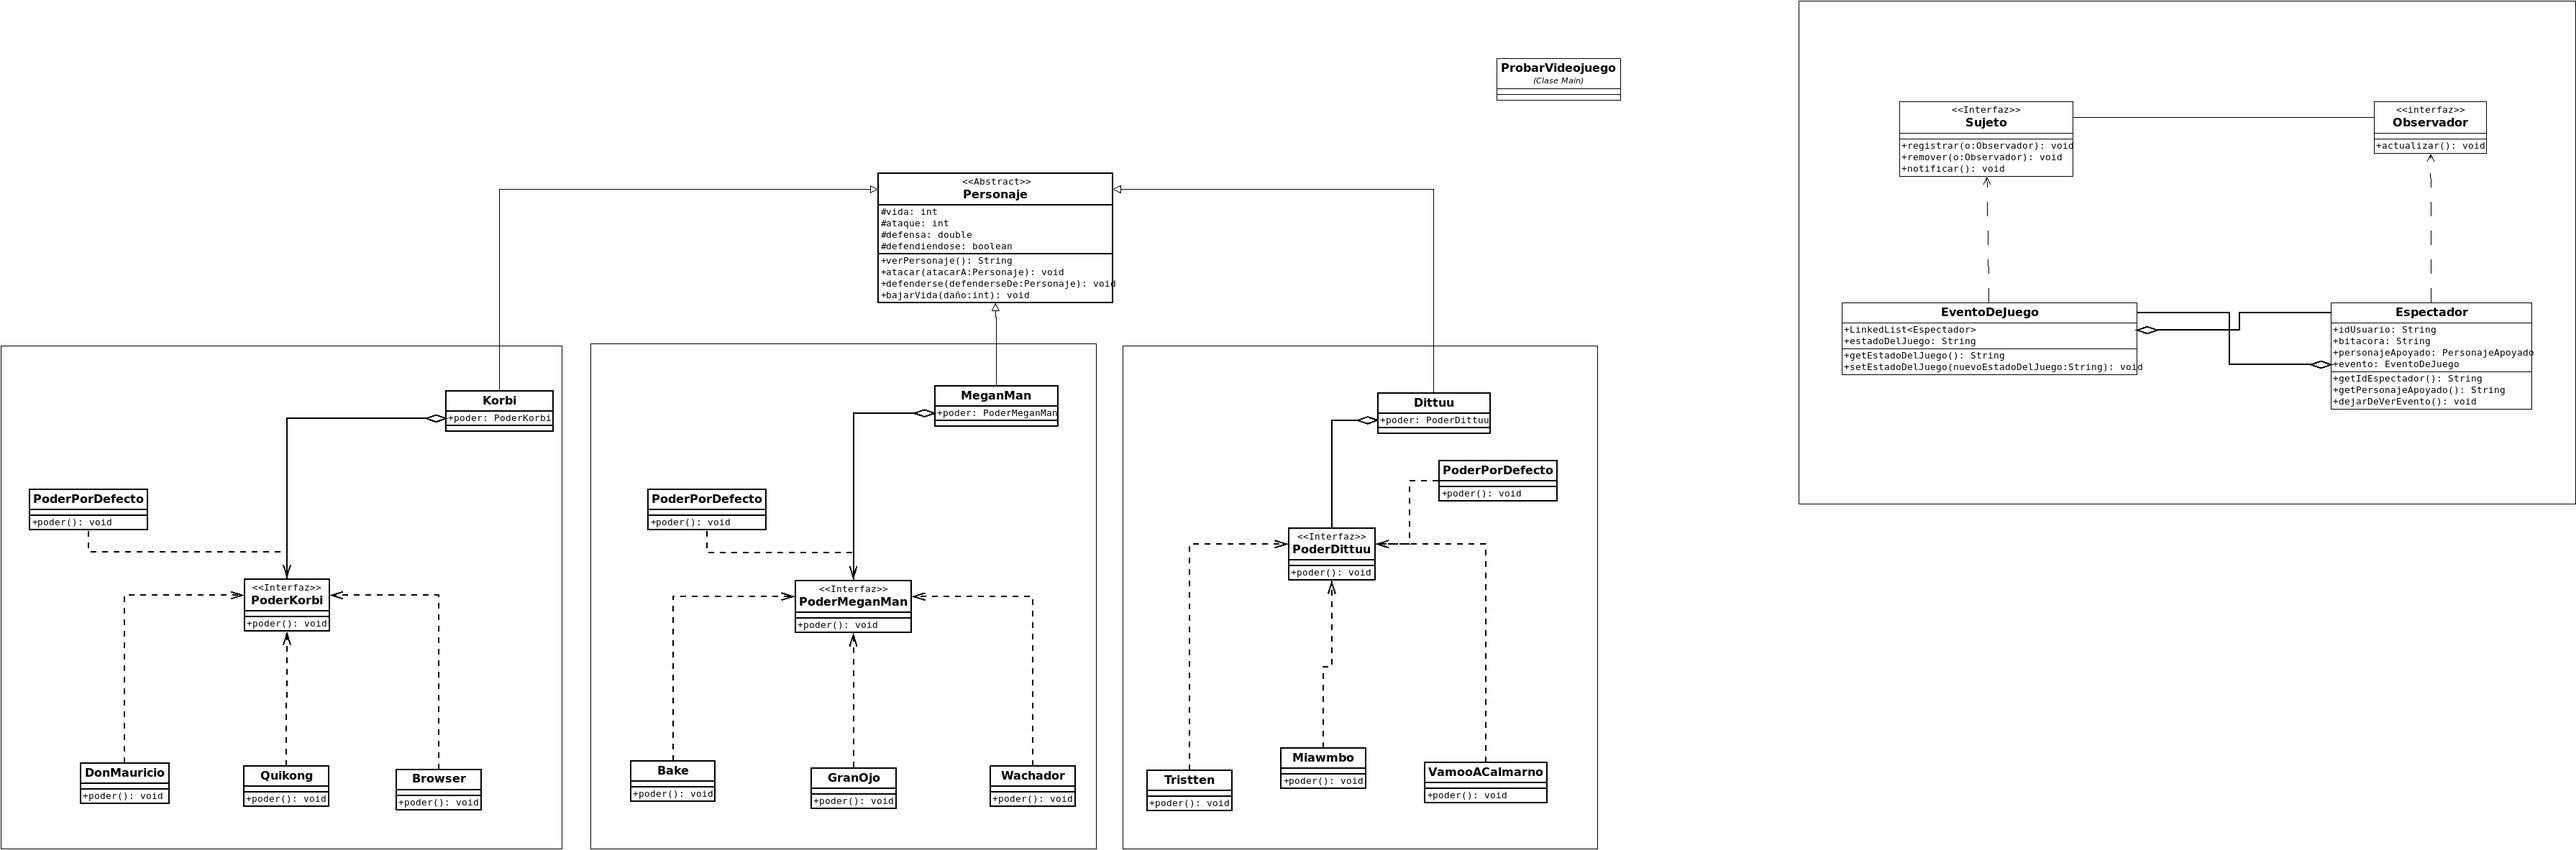
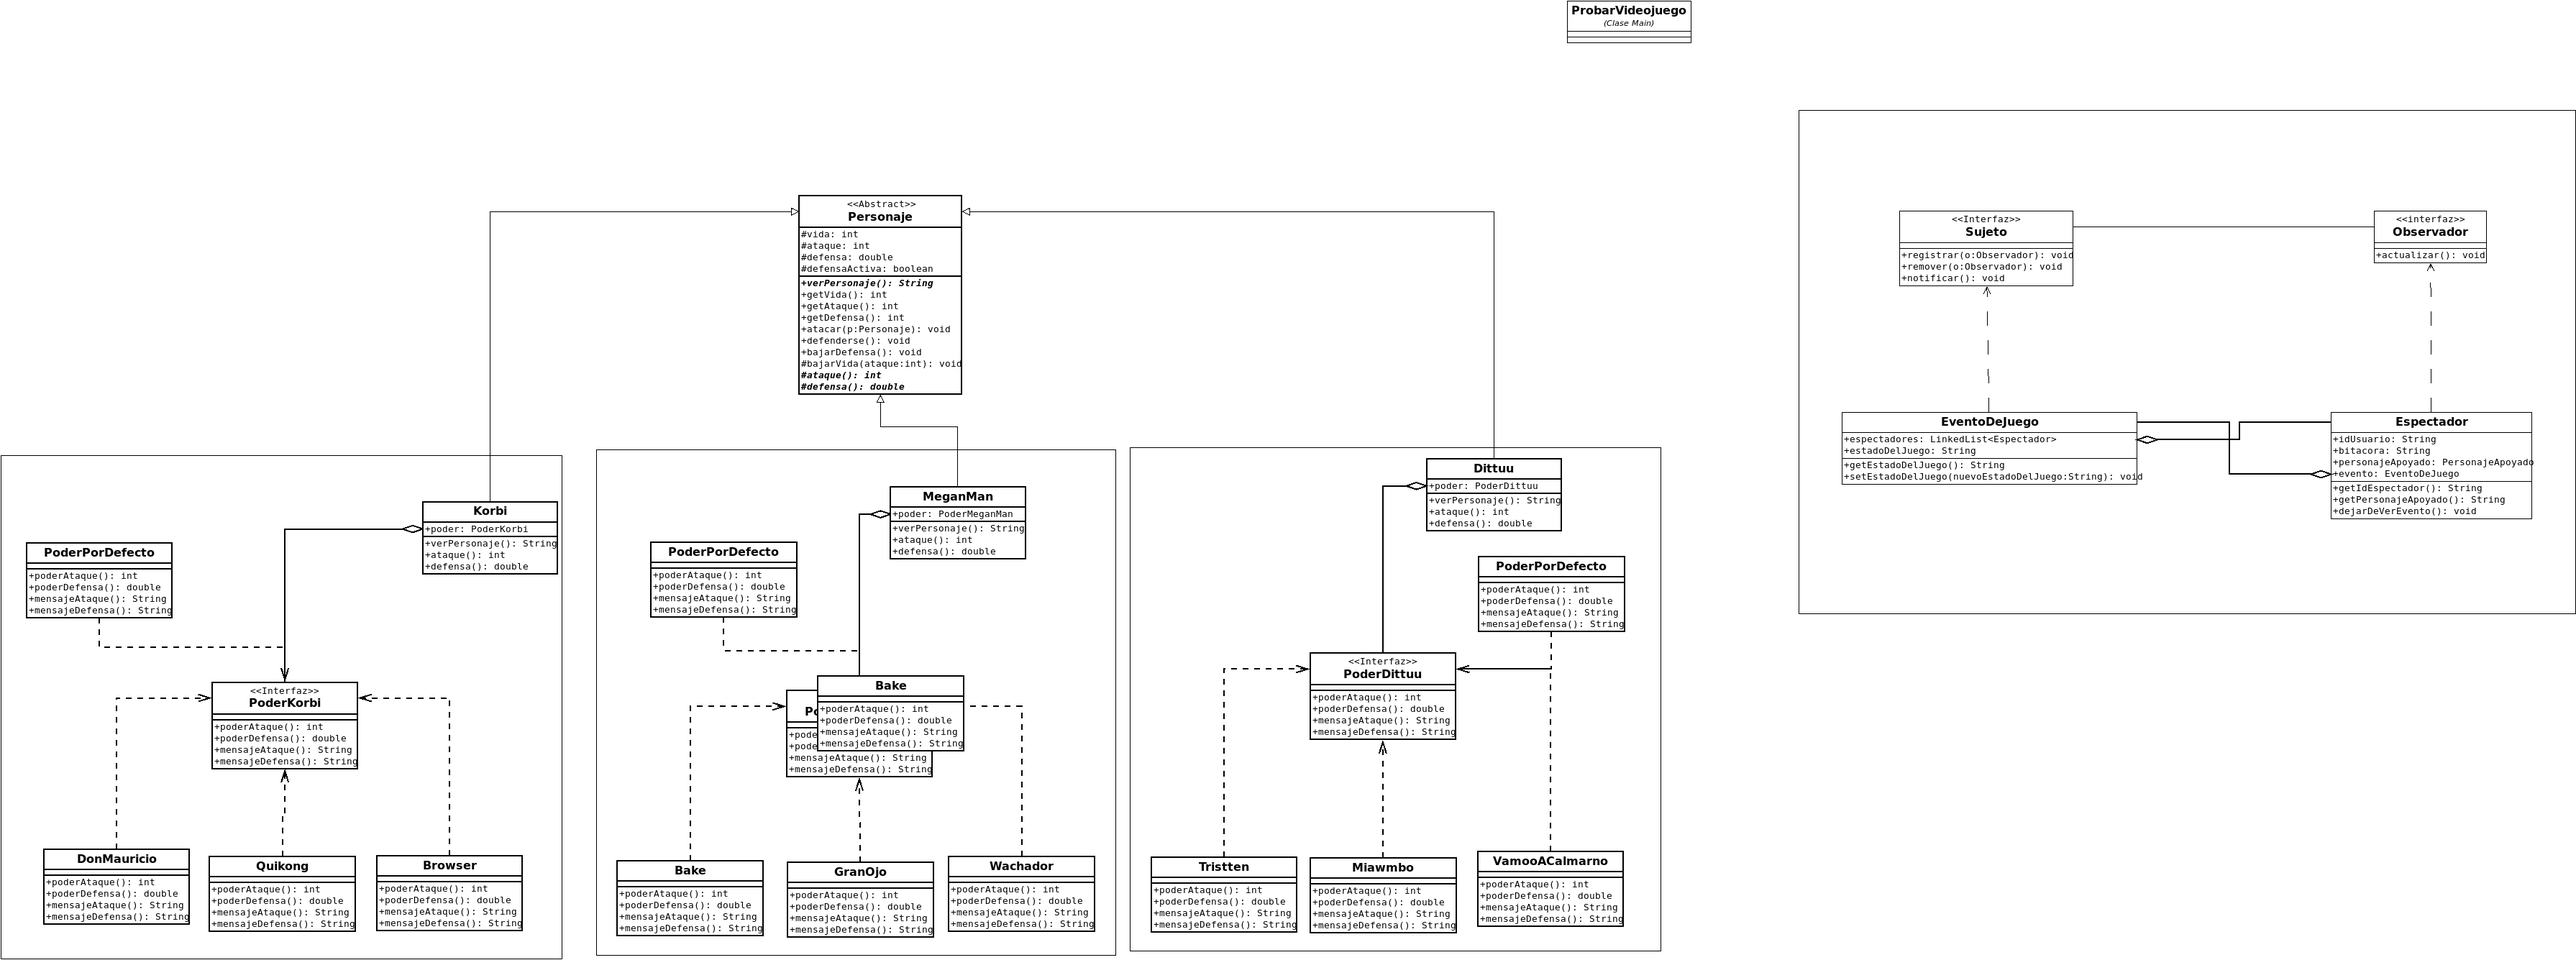
V-1.4 Versión mas o menos justificada de como deben ser las interfaces de los poderes y los personajes como tal, tambien se cambio el .dia y el .png del diagrama UML

diff --git a/src/personajes/dittuu/PoderDittuu.java b/src/personajes/dittuu/PoderDittuu.java
@@ -7,9 +7,44 @@ package personajes.dittuu;
 public interface PoderDittuu {
 
     /**
-     * Metodo que le va a dar un poder al personaje dittuu
-     * , se recomienda que el poder se lo de de manera que
-     * le suba la defensa o el ataque.
+     * Metodo que posiblemente va a aumentar el ataque de dittuu mediante un poder que le 
+     * especifiquemos en la implementación.
+     * "Si no queremos que este metodo haga practicamente nada, entonces, que regrese 0 si
+     * sumamos el ataque, o 1 si lo multiplicamos por el poder que ya tiene el personaje"
+     * Este metodo esta pensado para ser usado en conjunto con el metodo abstracto ataque()
+     * de la clase Personaje sobre Dittuu, al implementar dicho metodo de manera que usaremos
+     * el ataque por defecto de dittuu y le añadiremos este ataque extra.
+     * @return El poder de ataque extra que se le quiere agregar al personaje.
      */
-    public void poder();
+    public int poderAtaque();
+
+    /**
+     * Metodo que posiblemente va a aumentar la defensa de dittuu mediante un poder que le 
+     * especifiquemos en la implementación.
+     * "Si no queremos que este metodo haga practicamente nada, entonces, que regrese 0 si
+     * sumamos la defensa"
+     * Este metodo esta pensado para ser usado en conjunto con el metodo abstracto defensa
+     * de la clase Personaje sobre Dittuu, al implementar dicho metodo, de manera que usaremos
+     * la defensa por defecto de dittuu y le añadiremos esta defensa extra.
+     * @return La defenza extra que se le quiere agregar a dittuu.
+     */
+    public double poderDefensa();
+
+    /**
+     * Metodo que nos ayuda a visualizar como es que se le agrega mas ataque a Dittuu
+     * al convertirse en otro poquemon con solo mirarlo.
+     * @return Un string con las especificaciónes de como con este poder es que dittu
+     * aumento su ataque o "" en caso de que este poder no suba el ataque si no solo 
+     * la defensa.
+    */
+    public String mensajeAtaque();
+
+    /**
+     * Metodo que nos ayuda a visualizar como es que se le agrega la defensa a Dittuu
+     * al convertirse en otro poquemon con solo mirarlo
+     * @return Un string con las especificaciónes de como con este poder es que dittuu
+     * aumento su defensa o "" en caso de que este poder no suba la defensa si no solo
+     * el ataque.
+     */
+    public String mensajeDefensa();
 }

diff --git a/src/personajes/dittuu/Tristten.java b/src/personajes/dittuu/Tristten.java
@@ -2,19 +2,30 @@ package personajes.dittuu;
 
 public class Tristten implements PoderDittuu{ 
 
-    /**
-     * 
-     */
-    public void poder(){ 
-
+    
+    @Override
+    public int poderAtaque(){
+        return 0;// Pon un numero que aumente el ataque
     }
 
-    /**
-     * 
-     * @return
-     */
+    @Override
+    public double poderDefensa(){
+        return 1;// Pon un numero que aumente la defensa entre [0-1]
+    }
+
+    @Override
     public String mensajeAtaque(){
-        return "Dittuu se ha transformado en Tristten, llora como gata bajo la lluvia haciendo" +
-        "que caigan rayos a sus contrincantes";
+        String msj = "";
+        msj += "Dittuu se ha transformado en Tristten, llora como gata bajo la lluvia haciendo";
+        msj += " que caigan rayos a sus contrincantes";
+        // Lee las especificaciones para este metodo 
+        return msj;
+    }
+
+    @Override
+    public String mensajeDefensa(){
+        String msj = "";
+        //Lee las especificaciones para este metodo
+        return msj;
     }
 }

diff --git a/src/personajes/dittuu/Miawmbo.java b/src/personajes/dittuu/Miawmbo.java
@@ -1,22 +1,32 @@
 package personajes.dittuu;
 
 /**
- * 
+ * / Escribe lo que representa esta clase
  */
 public class Miawmbo implements PoderDittuu{
 
-    /**        
-     * 
-     */
-    public void poder(){
-
+    @Override
+    public int poderAtaque(){
+        return 0;// Pon un numero que aumente el ataque
     }
 
-    /**
-     * 
-     */
+    @Override
+    public double poderDefensa(){
+        return 1;
+    }
+
+    @Override
     public String mensajeAtaque(){
-        return "Dittuu se ha transformado en Miawmbo esquivando los aqtaques de sus contrincantes" + 
-        "mientras baila UNA GATITA QUE LE GUSTA EL MAMBO";
+        String msj = "";
+        msj += "Dittuu se ha transformado en Miawmbo esquivando los aqtaques de sus contrincantes";
+        msj += " mientras baila UNA GATITA QUE LE GUSTA EL MAMBO";
+        return msj;
+    }
+
+    @Override
+    public String mensajeDefensa(){
+        String msj = "";
+        //Lee las especificaciones para este metodo
+        return msj;
     }
 }

diff --git a/src/personajes/dittuu/VamooACalmarno.java b/src/personajes/dittuu/VamooACalmarno.java
@@ -3,18 +3,30 @@ package personajes.dittuu;
 
 public class VamooACalmarno implements PoderDittuu{
 
-    /**
-     * 
-     */
-    public void poder(){
-        
+    
+    @Override
+    public int poderAtaque(){
+        return 0;// Pon un numero que aumente el ataque
     }
 
-    /**
-     * 
-     */
-    public String mensajeAtaque(){
-        return "Dittuu se ha transformado en VamooACalmarno aumentando su defensa en la" +
-        "posición VAMO A CALMARNO";
+    @Override
+    public double poderDefensa(){
+        return 1;// Pon un numero que aumente la defensa entre [0-1]
     }
+
+    @Override
+    public String mensajeAtaque(){
+        String msj = "";
+        // Lee las especificaciones para este metodo 
+        return msj;
+    }
+
+    @Override
+    public String mensajeDefensa(){
+        String msj = "";
+        msj += "Dittuu se ha transformado en VamooACalmarno aumentando su defensa en la";
+        msj += " posición VAMO A CALMARNO";
+        return msj;
+    }
+
 }

diff --git a/src/personajes/dittuu/Dittuu.java b/src/personajes/dittuu/Dittuu.java
@@ -7,11 +7,30 @@ import personajes.Personaje;
  */
 public class Dittuu extends Personaje{
 
+    PoderDittuu poder;
+
     /**
      * Constructor unico y por defecto del personaje Dittuu.
      */
     public Dittuu(){
-        super(200,30,.4);
+        super(200,30,.3);
     }
 
+    @Override
+    public String verPersonaje(){
+        String p = "";
+        // Aqui ve agregando o el dibujito del personaje o sus atributos
+        //dependiendo del tiempo que te de
+        return p;
+    }
+
+    @Override
+    protected int ataque(){
+        return  ataque + poder.poderAtaque();
+    }
+
+    @Override
+    protected double defensa(){
+        return defensa + poder.poderDefensa();
+    }
 }

diff --git a/src/personajes/dittuu/PoderPorDefecto.java b/src/personajes/dittuu/PoderPorDefecto.java
@@ -5,5 +5,28 @@ package personajes.dittuu;
  */
 public class PoderPorDefecto implements PoderDittuu{
     
-    public void poder(){}
+
+    @Override
+    public int poderAtaque(){
+        return 0;// Pon un numero que aumente el ataque
+    }
+
+    @Override
+    public double poderDefensa(){
+        return 1;// Pon un numero que aumente la defensa entre [0-1]
+    }
+
+    @Override
+    public String mensajeAtaque(){
+        String msj = "";
+        // Lee las especificaciones para este metodo 
+        return msj;
+    }
+
+    @Override
+    public String mensajeDefensa(){
+        String msj = "";
+        //Lee las especificaciones para este metodo
+        return msj;
+    }
 }

diff --git a/src/personajes/Personaje.java b/src/personajes/Personaje.java
@@ -8,13 +8,13 @@ package personajes;
 public abstract class Personaje{
 
     /* La vida que tiene el personaje */
-    private int vida;
+    protected int vida;
     /* El ataque que tiene el personaje */
-    private int ataque;
+    protected int ataque;
     /* Tiene que ser un número entre 0 y 1 */
-    private double defensa;
+    protected double defensa;
     /* Nos ayuda a saber si el personaje tiene la defensa a activa o no */
-    private boolean defensaActiva;
+    protected boolean defensaActiva;
 
     /**
      * Constructor vacio.

diff --git a/src/personajes/meganman/MeganMan.java b/src/personajes/meganman/MeganMan.java
@@ -1,0 +1,7 @@
+package personajes.meganman;
+
+import personajes.Personaje;
+
+public class MeganMan extends Personaje{
+    //aqui va tu codigo XD
+}

diff --git a/src/personajes/korbi/PoderKorby.java b/src/personajes/korbi/PoderKorby.java
@@ -1,0 +1,1 @@
+package personajes.korbi; 

diff --git a/src/personajes/korbi/Korbi.java b/src/personajes/korbi/Korbi.java
@@ -1,0 +1,1 @@
+package personajes.korbi;
